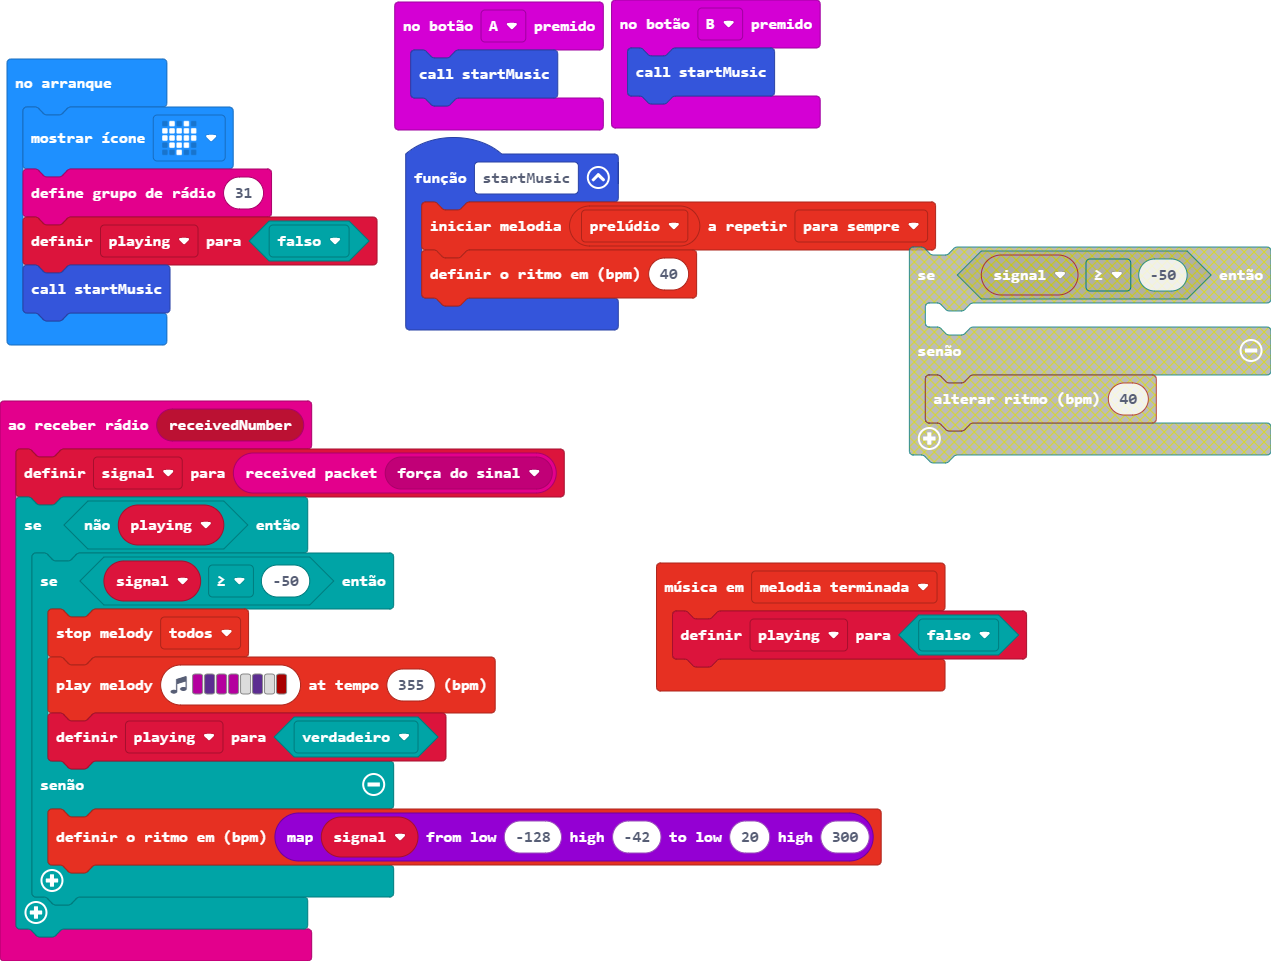
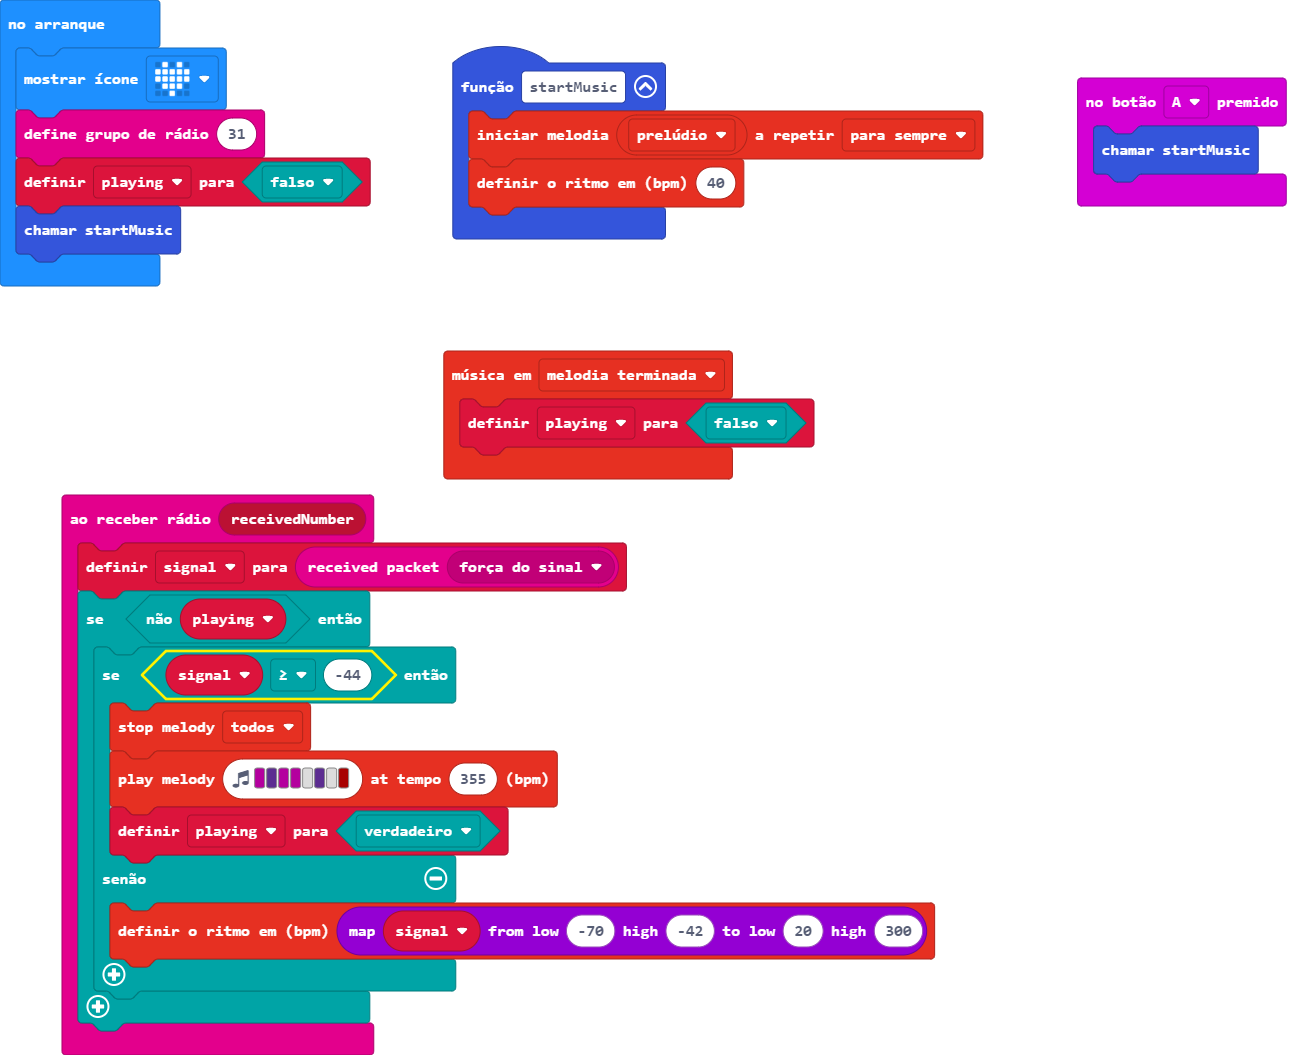
Atualização main.blocks, main.ts

diff --git a/main.ts b/main.ts
@@ -1,12 +1,12 @@
 radio.onReceivedNumber(function (receivedNumber) {
     signal = radio.receivedPacket(RadioPacketProperty.SignalStrength)
     if (!(playing)) {
-        if (signal >= -50) {
+        if (signal >= -44) {
             music.stopMelody(MelodyStopOptions.All)
             music.playMelody("C D C C - D - C5 ", 355)
             playing = true
         } else {
-            music.setTempo(Math.map(signal, -128, -42, 20, 300))
+            music.setTempo(Math.map(signal, -70, -42, 20, 300))
         }
     }
 })
@@ -15,9 +15,6 @@ input.onButtonPressed(Button.A, function () {
 })
 music.onEvent(MusicEvent.MelodyEnded, function () {
     playing = false
-})
-input.onButtonPressed(Button.B, function () {
-    startMusic()
 })
 function startMusic () {
     music.startMelody(music.builtInMelody(Melodies.Prelude), MelodyOptions.Forever)
